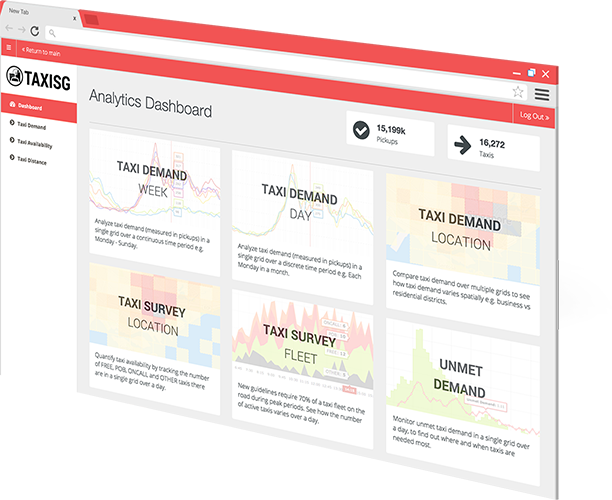
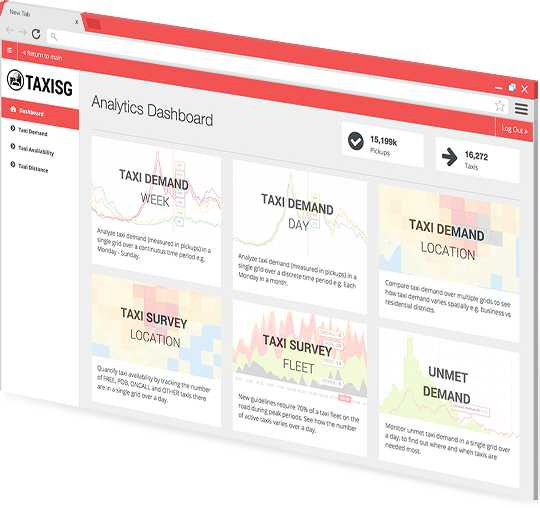
Update assets

Changed region(s): [[0.0, 0.0, 1.0, 1.0]]

diff --git a/app/assets/stylesheets/applications/index.css.scss b/app/assets/stylesheets/applications/index.css.scss
@@ -30,7 +30,7 @@
 
   section.banner {
     height: 470px;
-    background: image-url('core/banner-bg.png') no-repeat;
+    background: image-url('core/banner-bg.jpeg') no-repeat;
     background-size: cover;
 
     .intro {
@@ -77,11 +77,15 @@
       }
 
     .wraper {
-      margin-top: 132px;
+      margin-top: 82px;
     }
 
     .img-wrap img {
-      max-width: 625px;
+      max-width: 400px;
+    }
+
+    .intro {
+      margin-top: 68px;
     }
   }
 
@@ -126,6 +130,10 @@
     color: #FFF;
     background-color: #ef5555;
 
+    img {
+      max-width: 665px;
+    }
+
     .wraper {
       margin-top: 50px;
     }
@@ -165,6 +173,7 @@
 
     .img-wrap img {
       margin-left: 15px;
+      max-width: 555px;
     }
 
     .intro {
